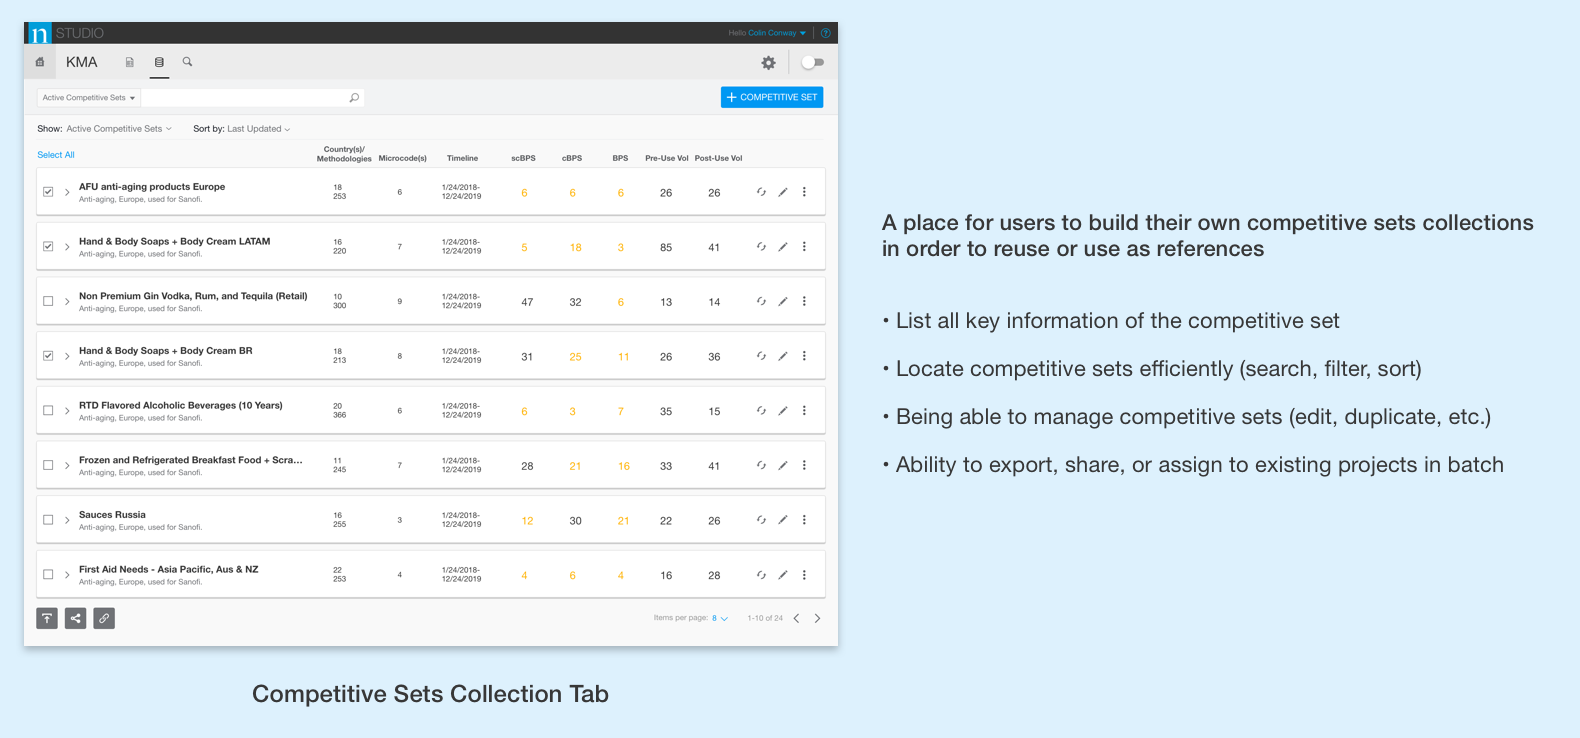
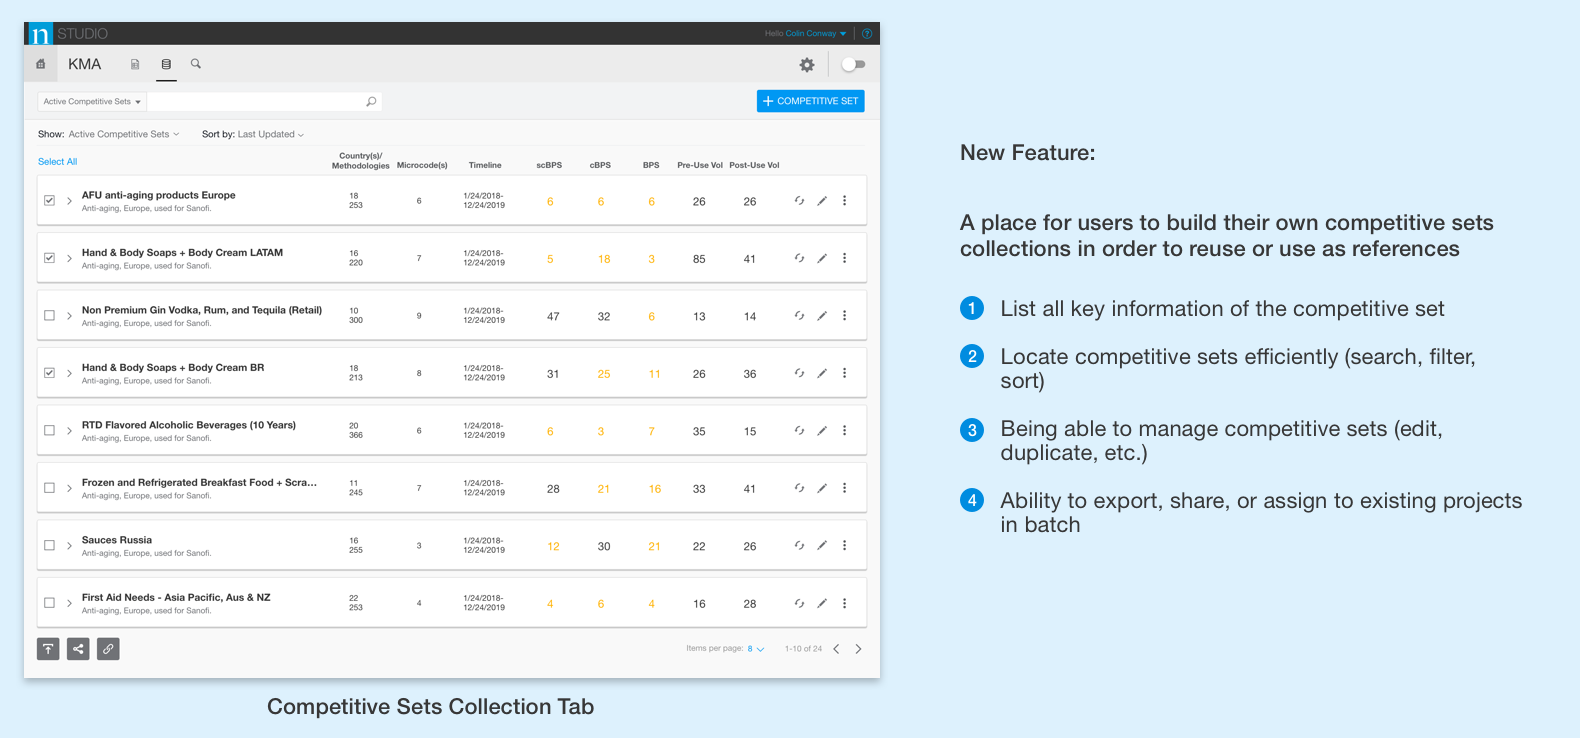
kma fix 0708

diff --git a/kmawithpsw.html b/kmawithpsw.html
@@ -236,6 +236,8 @@
 
 									<br>
 
+
+
 									<div>
 
 									<div class="tab_wrapper"> 
@@ -256,7 +258,8 @@
 										  <div class="pimages"><img src="img/kma/comp-new.png" width="100%" ></div><br>
 										</div>
                                     </div>
-                                        
+                                    <br><br>
+                                        <div class="pimages"><img src="img/kma/compsettab.png" width="100%" ></div><br>
                                         <br><br><br>
                                     </div>
 
